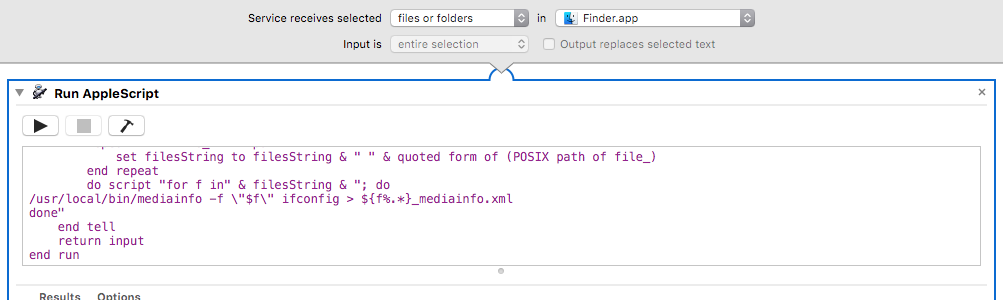
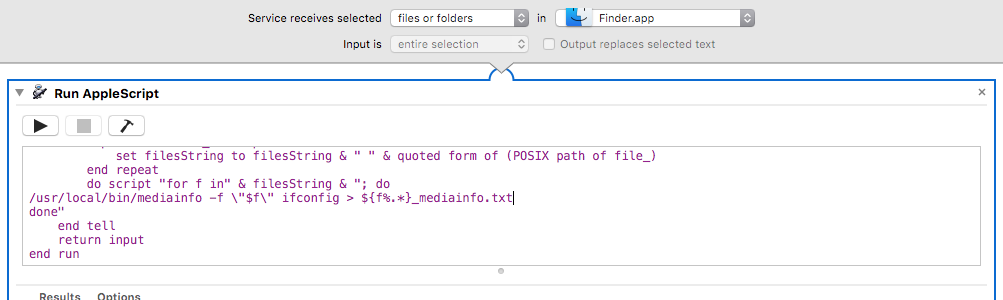
mediainfo

Changed region(s): [[0.0309, 0.48, 0.6491, 0.72], [0.0309, 0.72, 0.1545, 0.87], [0.5563, 0.03, 0.6491, 0.09]]

diff --git a/README.md b/README.md
@@ -38,7 +38,7 @@ This muxer computes and prints the Adler-32 CRC of all the input audio and video
 
 #####MediaInfo
 
-MediaInfo is a free and open-source program that displays technical information about media files, as well as tag information for many audio and video files. This workflow results in an XML file (orignalfilename_mediainfo.xml) in the same directory as original file.
+MediaInfo is a free and open-source program that displays technical information about media files, as well as tag information for many audio and video files. This workflow results in a plain text file (orignalfilename_mediainfo.txt) in the same directory as original file.
 
 
 #####MediaTrace
@@ -48,7 +48,7 @@ MediaTrace is a technical report that expresses the binary architecture of a fil
 
 #####FITS
 
-The File Information Tool Set (FITS) identifies, validates and extracts technical metadata for a wide range of file formats. It acts as a wrapper, invoking and managing the output from several other open source tools. Output from these tools are converted into a common format, compared to one another and consolidated into a single XML output file. This workflow results in a plain text file (orignalfilename_fits.txt) in the same directory as original file.
+The File Information Tool Set (FITS) identifies, validates and extracts technical metadata for a wide range of file formats. It acts as a wrapper, invoking and managing the output from several other open source tools. Output from these tools are converted into a common format, compared to one another and consolidated into a single XML output file. This workflow results in an XML file (orignalfilename_fits.xml) in the same directory as original file.
 
 #####files-into-folders
 
